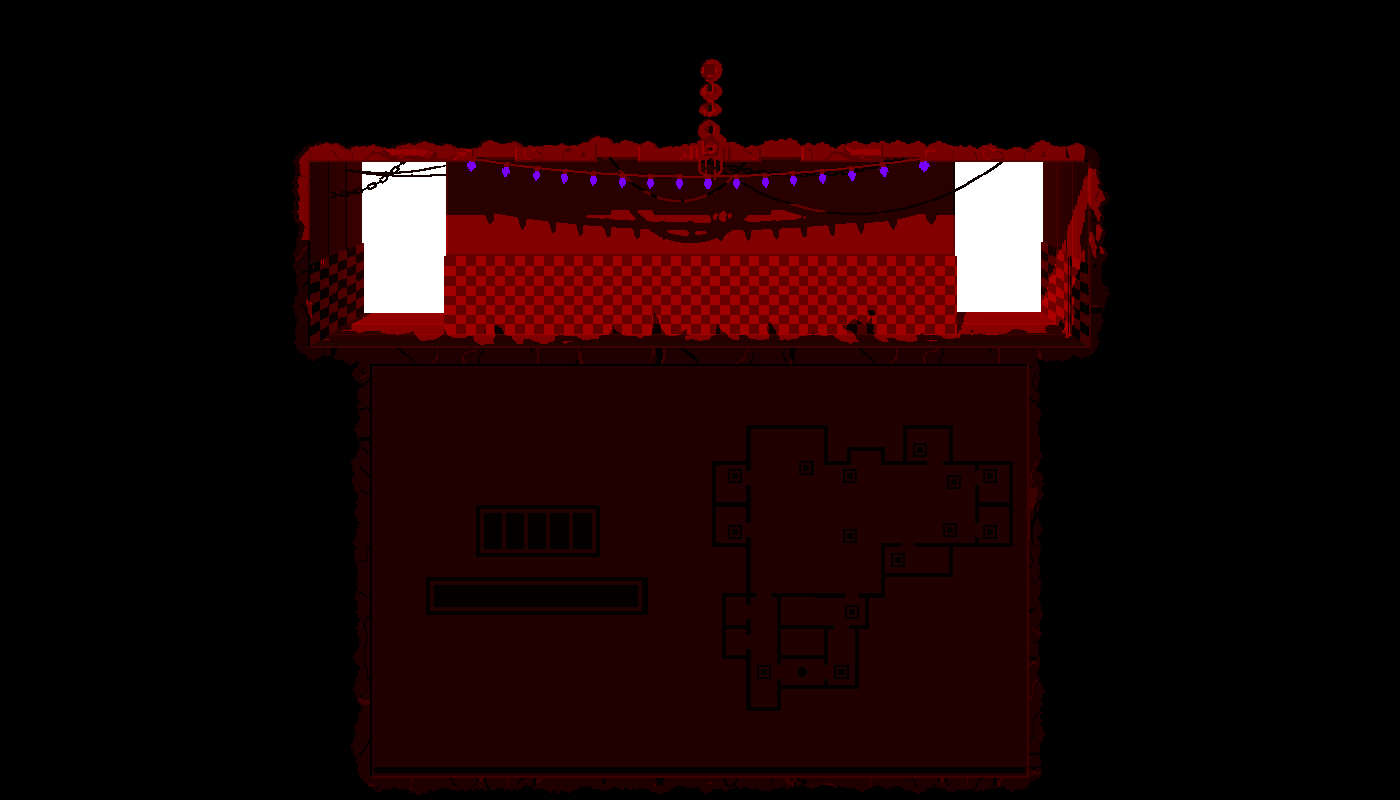
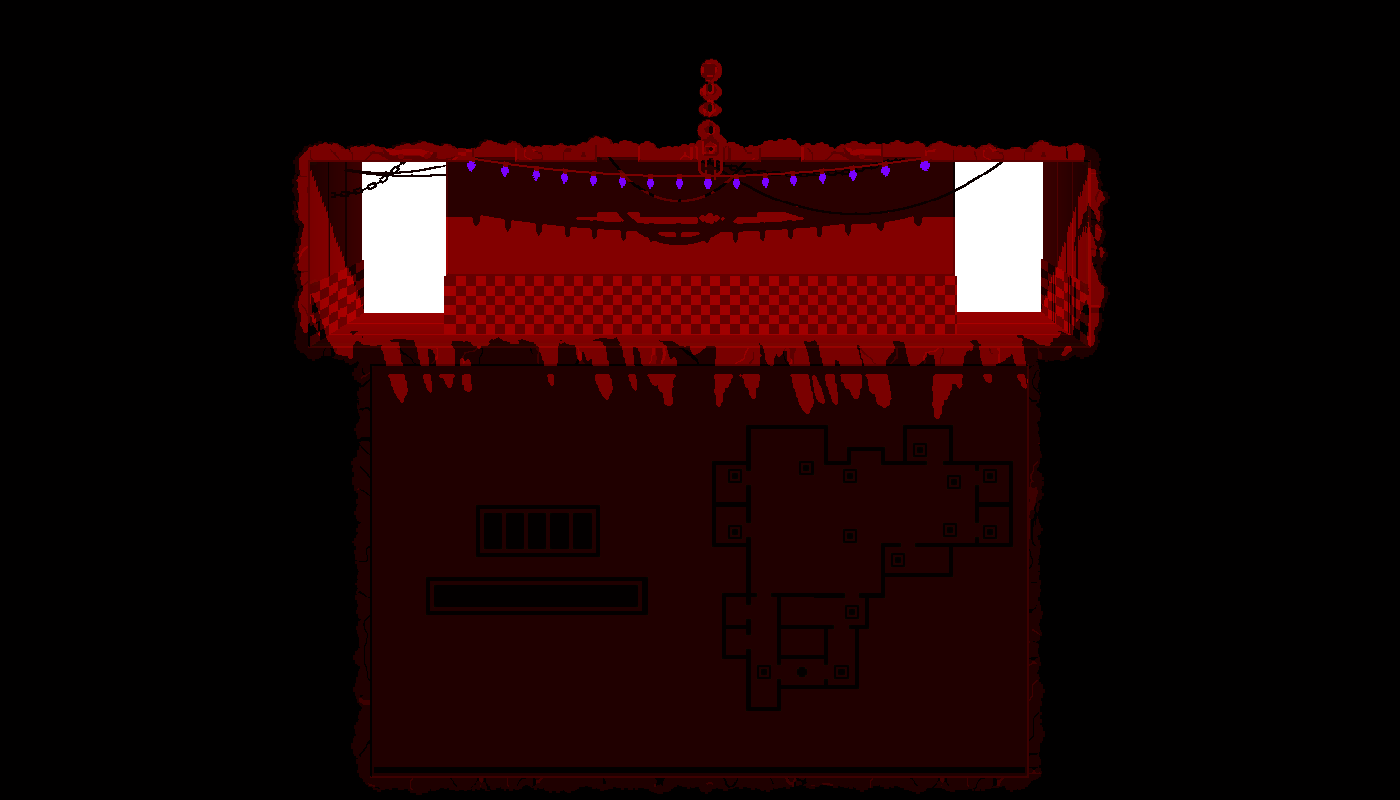
Finished door lights, adjusted palette + lightmap

Changed region(s): [[0.215, 0.2188, 0.7986, 0.5312], [0.3071, 0.25, 0.7064, 0.3438], [0.645, 0.25, 0.6757, 0.2812]]

diff --git a/src/SunblockRepresentation.cs b/src/SunblockRepresentation.cs
@@ -6,13 +6,13 @@ namespace FCAP
 {
     public class SunblockRepresentation : QuadObjectRepresentation
     {
-        SunblockControlPanel controlPanel;
-        int lineSprite;
-        Sunblock obj;
+        private readonly SunblockControlPanel controlPanel;
+        private readonly int lineSprite;
+        private Sunblock obj;
 
-        public SunblockRepresentation(DevUI owner, string IDstring, DevUINode parentNode, PlacedObject pObj) : base(owner, IDstring, parentNode, pObj, "FCAPSunblocker")
+        public SunblockRepresentation(DevUI owner, string IDstring, DevUINode parentNode, PlacedObject pObj) : base(owner, IDstring, parentNode, pObj, Constants.SunblockType.ToString())
         {
-            controlPanel = new SunblockControlPanel(owner, IDstring, this, new Vector2(100f, 0f));
+            controlPanel = new SunblockControlPanel(owner, IDstring, this, new Vector2(0f, 100f));
             subNodes.Add(controlPanel);
             controlPanel.pos = (pObj.data as Sunblock.SunblockData).panelPos;
             
@@ -39,27 +39,22 @@ namespace FCAP
 
         public class SunblockControlPanel : Panel
         {
-            //
             public SunblockControlPanel(DevUI owner, string IDstring, DevUINode parentNode, Vector2 pos) : base(owner, IDstring, parentNode, pos, new Vector2(250f, 25f), "FCAP Sunblock")
             {
                 subNodes.Add(new IDControl(owner, "ID", this, new Vector2(5f, 5f)));
             }
 
-            public class IDControl : IntegerControl
+            public class IDControl(DevUI owner, string IDstring, DevUINode parentNode, Vector2 pos) : IntegerControl(owner, IDstring, parentNode, pos, "ID")
             {
-                public IDControl(DevUI owner, string IDstring, DevUINode parentNode, Vector2 pos) : base(owner, IDstring, parentNode, pos, "ID")
-                {
-                }
-
                 public override void Refresh()
                 {
-                    NumberLabelText = ((parentNode as SunblockRepresentation).pObj.data as Sunblock.SunblockData).ID.ToString();
+                    NumberLabelText = ((parentNode.parentNode as SunblockRepresentation).pObj.data as Sunblock.SunblockData).ID.ToString();
                     base.Refresh();
                 }
 
                 public override void Increment(int change)
                 {
-                    var data = ((parentNode as SunblockRepresentation).pObj.data as Sunblock.SunblockData);
+                    var data = ((parentNode.parentNode as SunblockRepresentation).pObj.data as Sunblock.SunblockData);
                     data.ID += change;
                     base.Increment(change);
                     Refresh();

diff --git a/src/Sunblock.cs b/src/Sunblock.cs
@@ -6,11 +6,11 @@ namespace FCAP
 {
     public class Sunblock : UpdatableAndDeletable, IDrawable
     {
-        public Vector2[] quad;
+        private readonly Vector2[] quad;
         public PlacedObject placedObject;
-        public bool meshDirty = true;
 
-        public int ID => (placedObject.data as SunblockRepresentation.SunblockData).ID;
+        public int ID => (placedObject.data as SunblockData).ID;
+        public bool visible = true;
 
         public Sunblock(PlacedObject placedObject)
         {
@@ -57,9 +57,10 @@ namespace FCAP
             {
                 mesh.MoveVertice(i, quad[i] - camPos);
             }
+            mesh.isVisible = visible;
         }
 
-        public class SunblockData(PlacedObject owner) : PlacedObject.Data(owner)
+        public class SunblockData(PlacedObject owner) : PlacedObject.QuadObjectData(owner)
         {
             public Vector2 panelPos;
             public int ID;

diff --git a/src/GameController.cs b/src/GameController.cs
@@ -1,4 +1,5 @@
 using System;
+using System.Linq;
 using FCAP.AI;
 using FCAP.Graphics;
 using UnityEngine;
@@ -88,6 +89,13 @@ namespace FCAP
                 LeftDoorLight = LeftDoorLightCounter > 0;
                 RightDoorLight = RightDoorLightCounter > 0;
             }
+
+            // Update the actual lights
+            var sunblockers = room.updateList.Where(x => x is Sunblock).Cast<Sunblock>().ToList();
+            Sunblock leftBlocker = sunblockers.FirstOrDefault(x => x.ID == 0);
+            Sunblock rightBlocker = sunblockers.FirstOrDefault(x => x.ID == 1);
+            if (leftBlocker != null) leftBlocker.visible = !LeftDoorLight;
+            if (rightBlocker != null) rightBlocker.visible = !RightDoorLight;
 
             // Update timer thing
             if (InCams)
